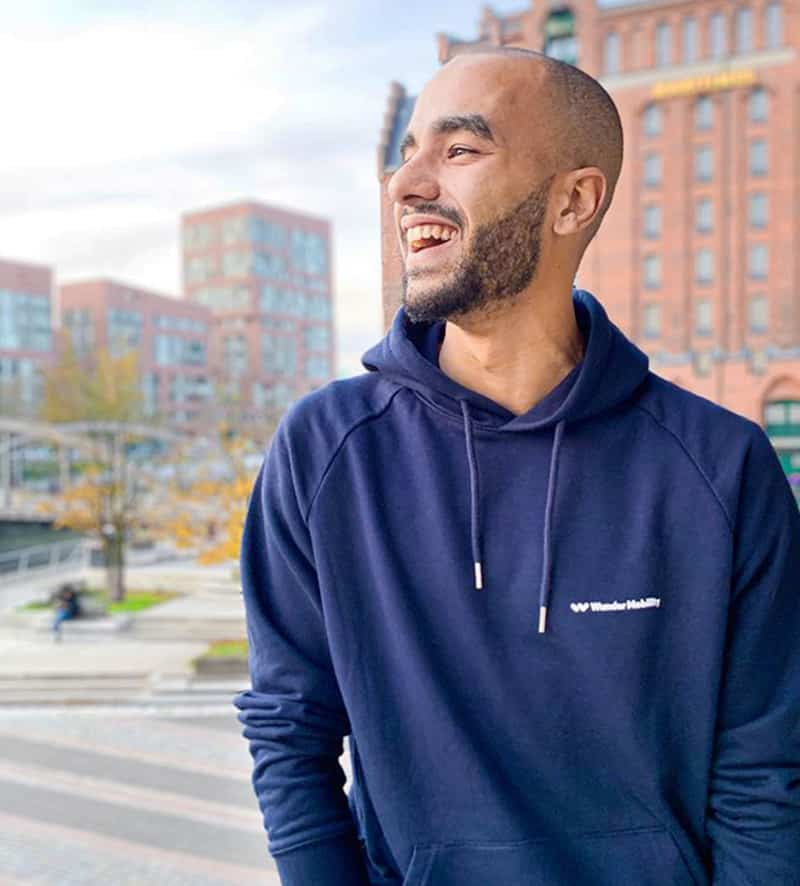
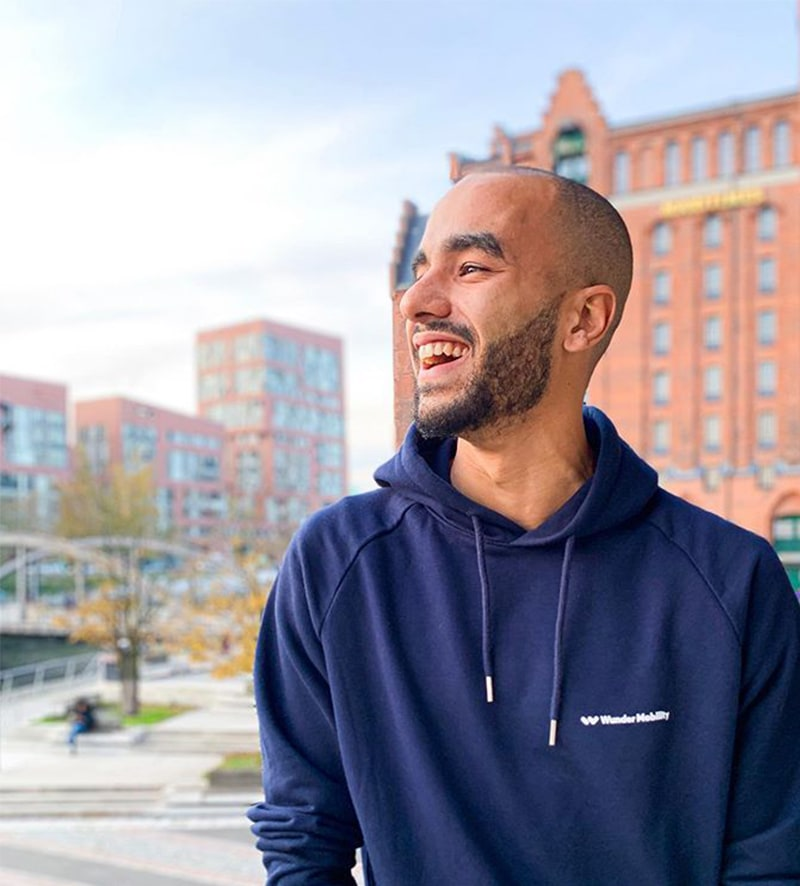
about us - new images, sticky center, parallax update

diff --git a/_includes/static/block-aboutus-main.html b/_includes/static/block-aboutus-main.html
@@ -3,10 +3,10 @@
   <div class="container py-5">
     <div class="quote-with-image ">
       <div class="row align-items-top">
-        <div class="col-lg-5 offset-xl-1 mb-5 mb-lg-0 text-center rellax">
+        <div class="col-lg-5 offset-xl-1 mb-5 mb-lg-0 pb-md-5 text-center rellax">
           <img class="sticky-top" onload="centerOffset(this)" data-rellax-speed="-3" data-src="/uploads/global/gunnar-sam.jpg" data-srcset="/uploads/global/gunnar-sam@2x.jpg 2x" />
         </div>
-        <div class="offset-2 col-9 col-sm-8 offset-lg-0 col-lg-7 col-xl-6 pb-md-5">
+        <div class="offset-2 col-9 col-sm-8 offset-lg-0 col-lg-7 col-xl-6">
           <blockquote class="with-photo align-bottom shift-left">
             <div class="quote">
               <svg class="quote-marks" viewBox="0 0 78 57" fill="none" xmlns="http://www.w3.org/2000/svg">
@@ -57,7 +57,7 @@
 
           <div class="col-md-5 col-xl-4 offset-md-1">
             <div class="timeline__date-content">
-              <h3 class="timeline__date rellax" data-rellax-speed="-2">
+              <h3 class="timeline__date rellax" data-rellax-speed="-1">
                 <svg viewBox="0 0 32 57" fill="none" xmlns="http://www.w3.org/2000/svg">
                   <path d="M32 8.90239C21.75 13.8482 16.625 19.6594 16.625 26.3362C21.0417 26.8308 24.6667 28.603 27.5 31.6529C30.3333 34.6204 31.75 38.0824 31.75 42.039C31.75 46.243 30.3333 49.7874 27.5 52.6725C24.75 55.5575 21.2917 57 17.125 57C12.4583 57 8.41667 55.1453 5 51.436C1.66667 47.6443 0 43.0694 0 37.7115C0 21.6377 9.04167 9.06725 27.125 0L32 8.90239Z" />
                 </svg>14-15
@@ -72,7 +72,7 @@
           </div>
           <div class="col-10 offset-1 col-md-6 offset-md-0 col-lg-5 offset-lg-1 offset-xl-1 align-self-md-center align-self-lg-start">
             <div class="timeline__image-content d-flex flex-column align-items-start">
-              <img class="timeline__main-image rellax" data-rellax-speed="1" data-src="/uploads/global/wundercar-mini.jpg" data-srcset="/uploads/global/wundercar-mini@2x.jpg 2x" >
+              <img class="timeline__main-image rellax" data-rellax-speed="1" data-src="/uploads/global/wundercar-people.jpg" data-srcset="/uploads/global/wundercar-people@2x.jpg 2x" >
               <div class="timeline__logo-image align-self-end rellax" data-rellax-speed="2">
                 <img data-src="/uploads/global/wundercar-logo.jpg" data-srcset="/uploads/global/wundercar-logo@2x.jpg 2x" >
               </div>
@@ -87,7 +87,7 @@
 
           <div class="col-md-5 col-xl-4 offset-md-1 order-md-2">
             <div class="timeline__date-content">
-              <h3 class="timeline__date shift-left rellax" data-rellax-speed="-2">
+              <h3 class="timeline__date shift-left rellax" data-rellax-speed="-1">
                 <svg viewBox="0 0 32 57" fill="none" xmlns="http://www.w3.org/2000/svg">
                   <path d="M32 8.90239C21.75 13.8482 16.625 19.6594 16.625 26.3362C21.0417 26.8308 24.6667 28.603 27.5 31.6529C30.3333 34.6204 31.75 38.0824 31.75 42.039C31.75 46.243 30.3333 49.7874 27.5 52.6725C24.75 55.5575 21.2917 57 17.125 57C12.4583 57 8.41667 55.1453 5 51.436C1.66667 47.6443 0 43.0694 0 37.7115C0 21.6377 9.04167 9.06725 27.125 0L32 8.90239Z" />
                 </svg>16-17
@@ -117,7 +117,7 @@
 
           <div class="col-md-5 col-xl-4 offset-md-1">
             <div class="timeline__date-content">
-              <h3 class="timeline__date rellax" data-rellax-speed="-2">
+              <h3 class="timeline__date rellax" data-rellax-speed="-1">
                 <svg viewBox="0 0 32 57" fill="none" xmlns="http://www.w3.org/2000/svg">
                   <path d="M32 8.90239C21.75 13.8482 16.625 19.6594 16.625 26.3362C21.0417 26.8308 24.6667 28.603 27.5 31.6529C30.3333 34.6204 31.75 38.0824 31.75 42.039C31.75 46.243 30.3333 49.7874 27.5 52.6725C24.75 55.5575 21.2917 57 17.125 57C12.4583 57 8.41667 55.1453 5 51.436C1.66667 47.6443 0 43.0694 0 37.7115C0 21.6377 9.04167 9.06725 27.125 0L32 8.90239Z" />
                 </svg>18-19
@@ -148,7 +148,7 @@
 
           <div class="col-md-5 col-xl-4 offset-md-1 order-md-2">
             <div class="timeline__date-content">
-              <h3 class="timeline__date shift-left shift-left-less rellax" data-rellax-speed="-2">
+              <h3 class="timeline__date shift-left shift-left-less rellax" data-rellax-speed="-1">
                 <svg viewBox="0 0 32 57" fill="none" xmlns="http://www.w3.org/2000/svg">
                   <path d="M32 8.90239C21.75 13.8482 16.625 19.6594 16.625 26.3362C21.0417 26.8308 24.6667 28.603 27.5 31.6529C30.3333 34.6204 31.75 38.0824 31.75 42.039C31.75 46.243 30.3333 49.7874 27.5 52.6725C24.75 55.5575 21.2917 57 17.125 57C12.4583 57 8.41667 55.1453 5 51.436C1.66667 47.6443 0 43.0694 0 37.7115C0 21.6377 9.04167 9.06725 27.125 0L32 8.90239Z" />
                 </svg>20
@@ -177,18 +177,18 @@
 
 <div class="container pb-5">
   <div class="text-center mb-5 pb-5 mx-auto">
-    <h3 class="headline-medium pb-3">Join the ride</h3>
-    <a href="/careers" class="btn btn-outline-primary mb-5">Careers</a>
+    <h3 class="headline-medium pb-3 aboutus-join" data-aos="soft-up" data-aos-easing="apple-easing" >Join the ride</h3>
+    <a href="/careers" class="btn btn-outline-primary mb-5" data-aos="fade-in" data-aos-easing="apple-easing" data-aos-anchor=".aboutus-join">Careers</a>
   </div>
   <hr>
 </div>
 
 <section class="mt-5 pt-md-5" id="wunder-locations">
   <div class="container pt-md-5">
-    <h2 class="headline-large text-center mb-5">Where in the world is Wunder?</h2>
+    <h2 class="headline-large text-center mb-5" data-aos="soft-up" data-aos-easing="apple-easing">Where in the world is Wunder?</h2>
     <div class="row pt-5">
 
-      <div class="col-sm-4 mb-5">
+      <div class="col-sm-4 mb-5" data-aos="soft-up" data-aos-easing="apple-easing">
         <img class="mb-4" data-src="/uploads/global/Hamburg.jpg" data-srcset="/uploads/global/Hamburg@2x.jpg 2x" alt="Photo of the Elbphiharmonie operahouse in Hamburg at sunset" />
         <address class="">
             <h4 class="headline-small">Hamburg, Germany</h4>
@@ -200,7 +200,7 @@
         </address>
       </div>
 
-      <div class="col-sm-4 mb-5">
+      <div class="col-sm-4 mb-5" data-aos="soft-up" data-aos-easing="apple-easing" data-aos-delay="200">
         <img class="mb-4" data-src="/uploads/global/Dortmund.jpg" data-srcset="/uploads/global/Dortmund@2x.jpg 2x" alt="Photo of an old house and a modern glass building in the background, presumably in the city of Dortmund" />
         <address class="">
             <h4 class="headline-small">Dortmund, Germany</h4>
@@ -212,7 +212,7 @@
         </address>
       </div>
 
-      <div class="col-sm-4 mb-5">
+      <div class="col-sm-4 mb-5" data-aos="soft-up" data-aos-easing="apple-easing" data-aos-delay="400">
         <img class="mb-4" data-src="/uploads/global/LA.jpg" data-srcset="/uploads/global/LA@2x.jpg 2x" alt="Photo of some tall palm trees with a smoggy city skyline behind" />
         <address class="">
             <h4 class="headline-small">Los Angeles, California, USA</h4>
@@ -227,7 +227,7 @@
     </div>
 
     <div class="text-center py-5 mx-auto">
-      <a href="#section-contact" class="btn btn-outline-primary mb-5">Get in touch</a>
+      <a href="#section-contact" class="btn btn-outline-primary mb-5" data-aos="fade-in" data-aos-easing="apple-easing">Get in touch</a>
       <p class="text-muted py-5"><small>Photo credits: Stefanie Kleemann, Dortmund agency, City of Dortmund</small></p>
     </div>
 

diff --git a/assets/js/main.js b/assets/js/main.js
@@ -13,7 +13,7 @@ window.addEventListener('load', function() {
 });
 
 var centerOffset = function(element) {
-  var topOffset = ($(window).height() / 2) - ($(element).height() / 2)
+  var topOffset = ($(window).height() / 2) - ($(element).height() / 1.5)
   $(element).css('top', topOffset);
 }
 
